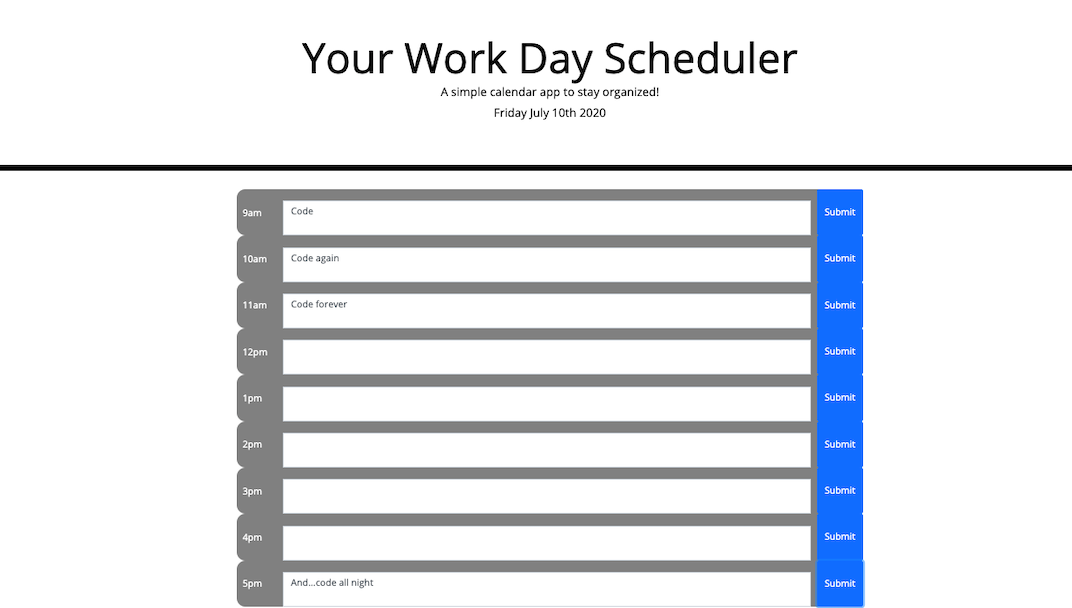
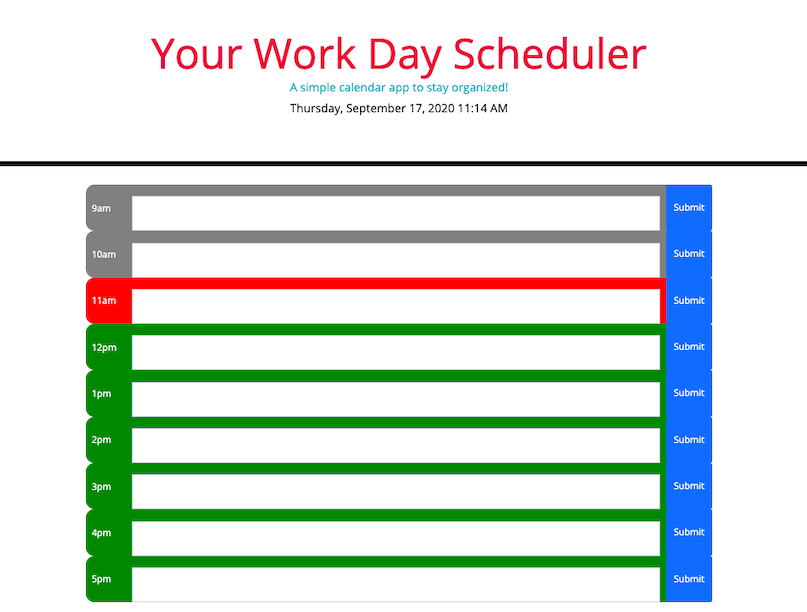
Screenshot updated in README

diff --git a/planner.js b/planner.js
@@ -2,15 +2,13 @@
 $(document).ready(() => {
   console.log("ready!");
 });
-
 //DOM elements
 var container = $(".container");
 var inputGroup = $(".time-block");
 var currentDateEl = $("#currentDay");
 var currentTimeEl = $("#currentTime");
 var plannerEl = $("#planner");
-
-//NON WORKING CODE - trying to generate the divs through JS
+//NON WORKING CODE===>trying to generate the divs through JS
 // var workingHours = [9, 10, 11, 12, 13, 14, 15, 16, 17];
 //create a div element with timeblock, input area and submit button
 // var timeBlockEl = $(
@@ -23,11 +21,8 @@ var plannerEl = $("#planner");
 //   container.append(timeBlockEl);
 //   console.log([i]);
 // }
-
 //GET THE CURRENT DATE and TIME --> display it
 currentDateEl.text(moment().format("LLLL"));
-//create a hour variable to use later
-
 //GET THE CURRENT TIME
 function myHour() {
   var d = new Date();
@@ -35,36 +30,32 @@ function myHour() {
   return parseInt(n);
 }
 console.log(myHour());
-
 //set color blocks by comparing current time with the time in blocks
 $(".time-block").each(function () {
   console.log(this);
   //targets the timblock saves it to timeRow
   var timeRow = $(this);
-  console.log(timeRow);
   //put in the user time
   var now = myHour();
-  console.log(now);
   //splits the number from the hour which allows it to be parsed so we can compare it to the hour
   var time = parseInt(timeRow.attr("id").split("-")[1]);
   console.log(time);
   if (now === time) {
-    $(this).addClass("present");
     //if time.key === myHour, then block is red
+    $(this).addClass("present");
   }
   if (now > time) {
+    //if time.key > myHour, then block is grey
     $(this).addClass("past");
-    //if time.key < myHour, then block is grey
   }
   if (now < time) {
-    $(this).addClass("future");
     // if time.key> if time.key < myHour, then block is green
+    $(this).addClass("future");
   }
 });
-
 var userInputByHour = [];
 //LOCALSTORAGE
-// jQuery Save button savebutton is targeted, when save button is clicked
+// jQuery, when save button is clicked
 $(".btn").on("click", function () {
   //get nearby values
   console.log(this);
@@ -75,8 +66,7 @@ $(".btn").on("click", function () {
   //set items in local storage.
   localStorage.setItem(time, myToDo);
 });
-
-// // calling value of hour-9 and placing it in the proper hour description value
+//calling value of hour-9 and placing it in the proper hour description value
 $("#hour-9 .form-control").val(localStorage.getItem("hour-9"));
 $("#hour-10 .form-control").val(localStorage.getItem("hour-10"));
 $("#hour-11 .form-control").val(localStorage.getItem("hour-11"));

diff --git a/index.html b/index.html
@@ -25,8 +25,9 @@
   <body>
     <header class="jumbotron">
       <h1 class="display-3 text-danger">Your Work Day Scheduler</h1>
-      <p class="lead text-info">A simple calendar app to stay organized!</p>
+      <h3 class="lead text-info">A simple calendar app to stay organized!</h3>
       <p id="currentDay" class="lead"></p>
+      <br />
       <p id="currentTime" class="lead text-success"></p>
     </header>
     <div class="container">

diff --git a/README.md b/README.md
@@ -5,11 +5,11 @@ Create a simple calendar application that allows the user to save events for eac
 ### What I did
 
 Local storage is used to stored the data, even after refreshing the page and Bootstrap makes the app responsive.
+Current time of the day will be colored in red, past in grey and future in green.
 
-### Project screenshots
+### Project screenshot
 
 ![Day Planner screenshot](planner.png)
-![Planner local storage screenshot](planner-storage.png)
 
 ## Project submissions
 
